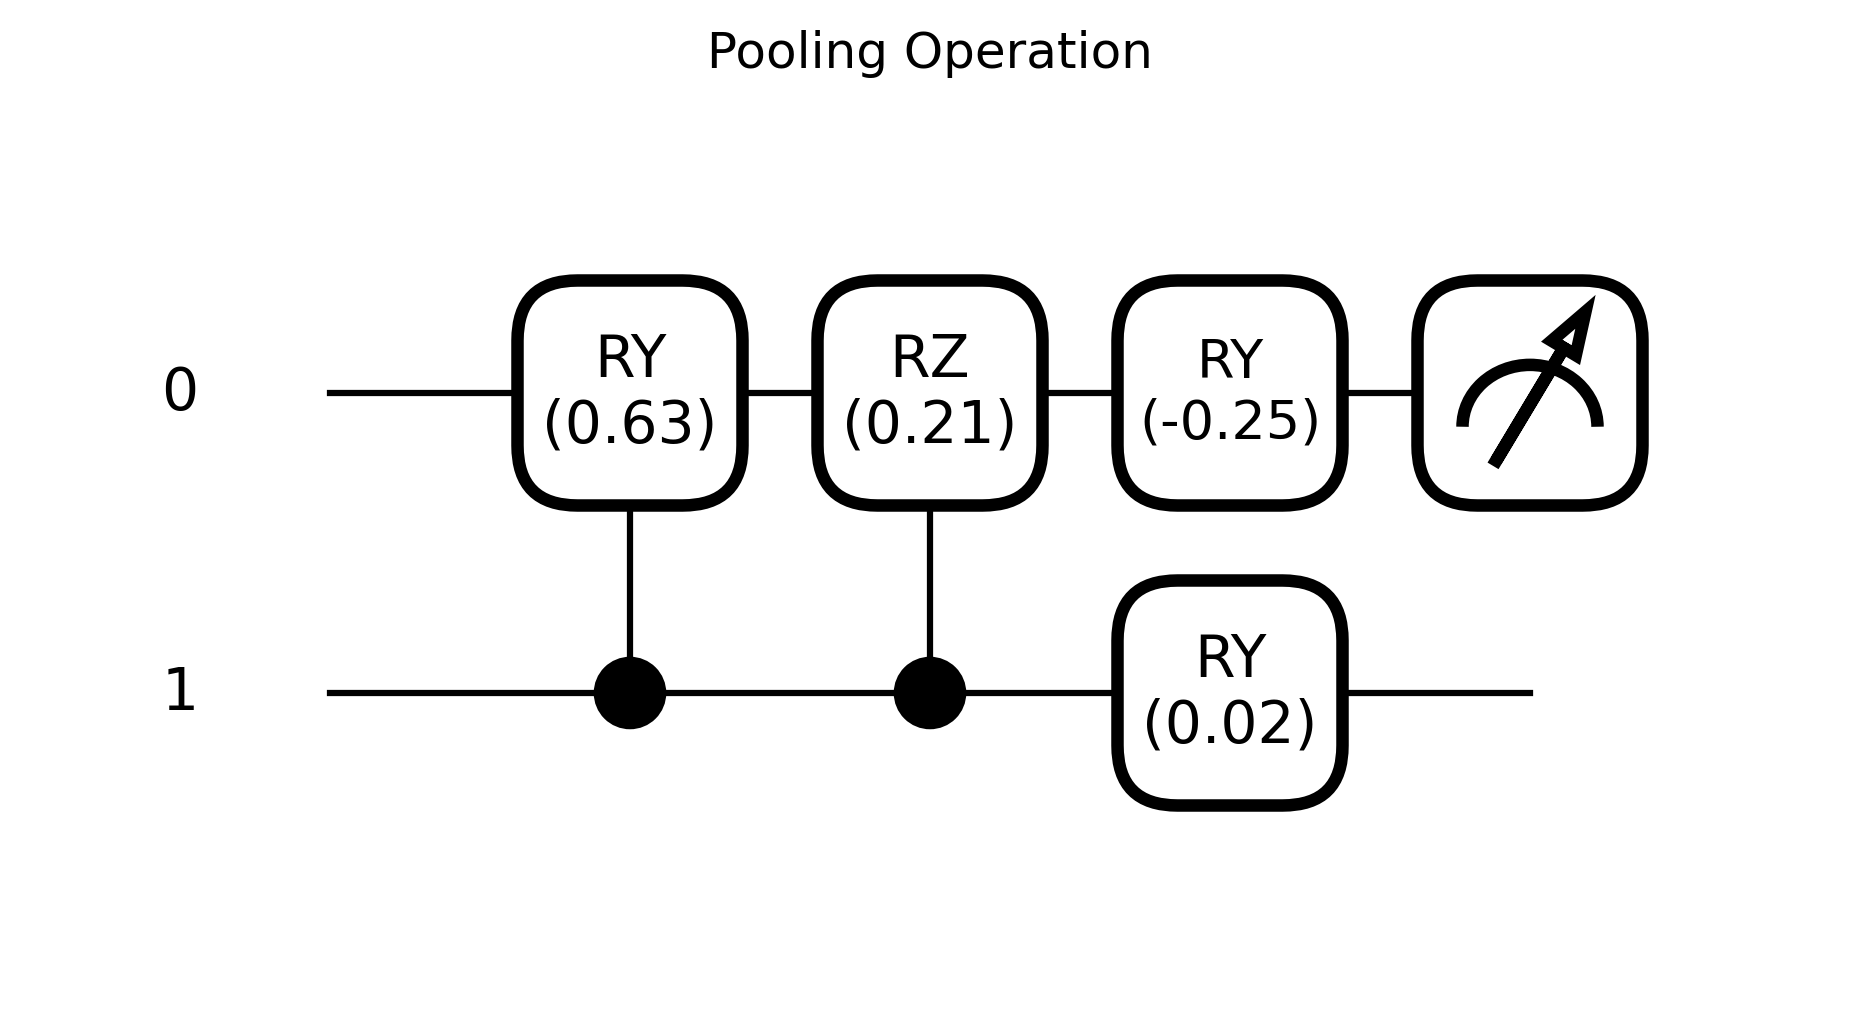
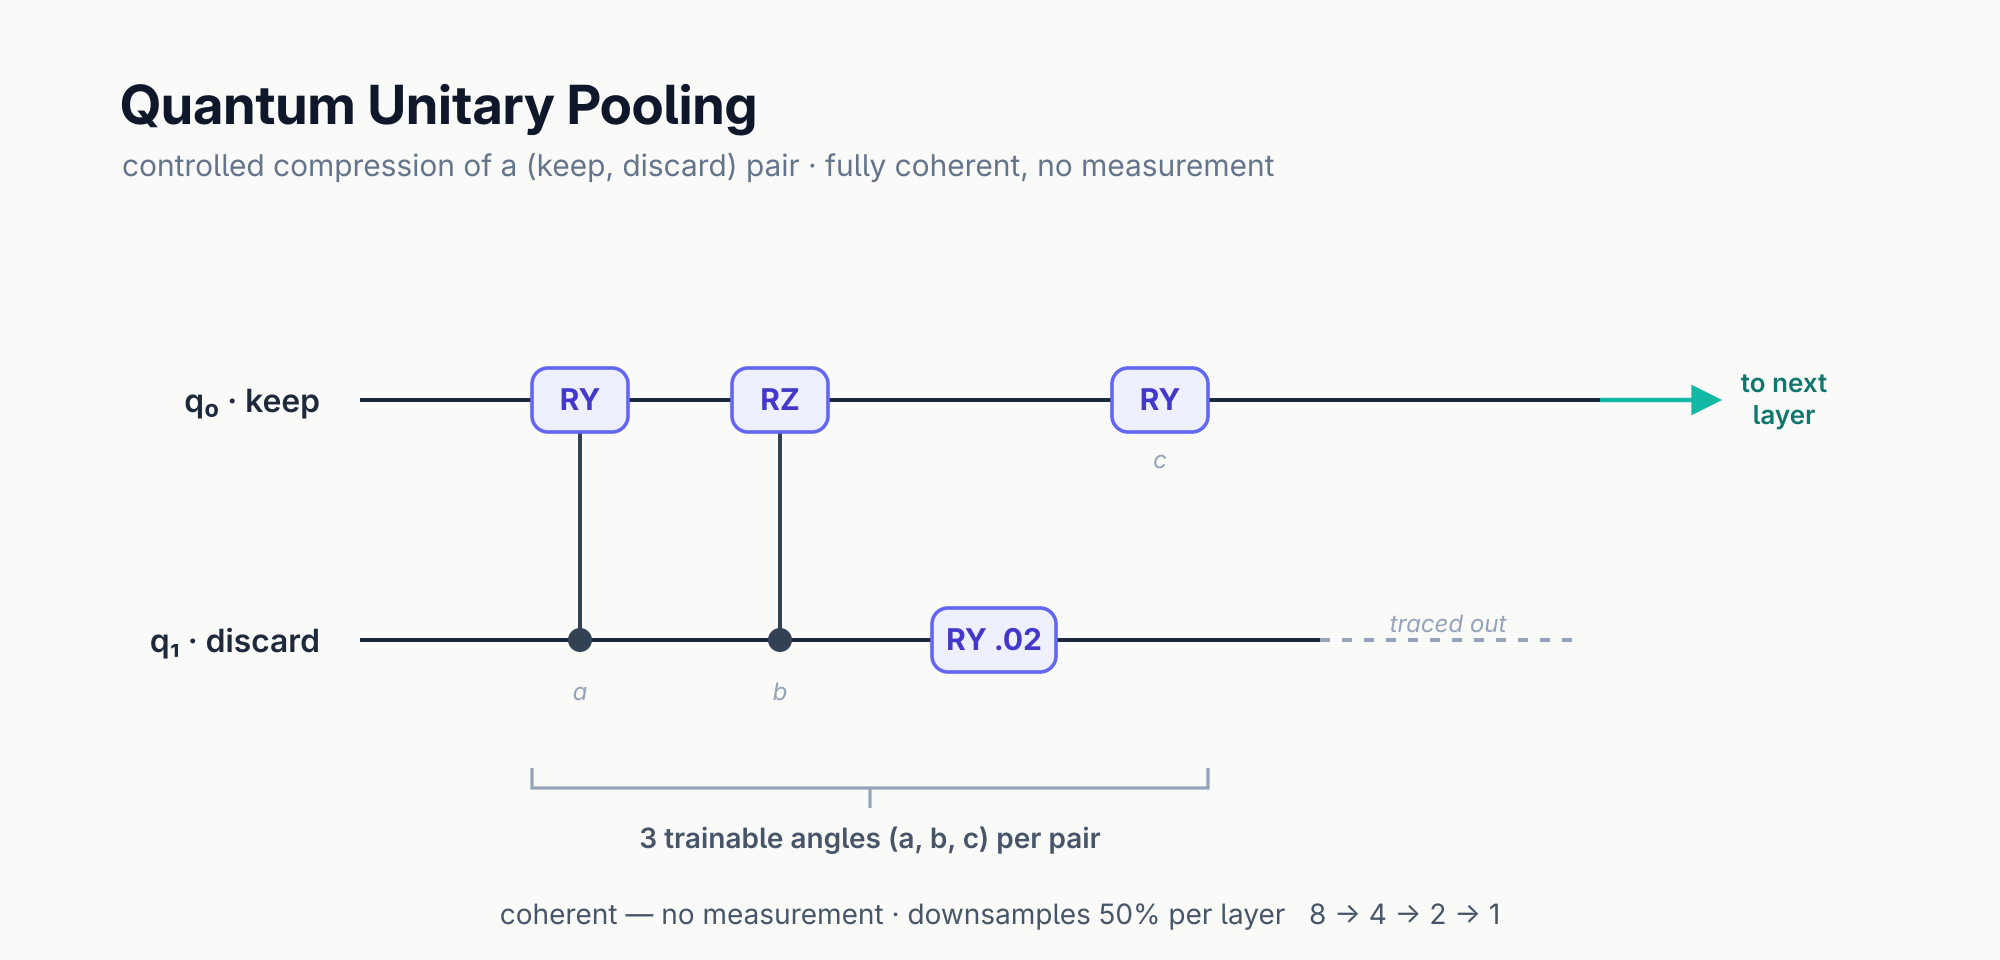
Feat: added QCNN properly generated circuit diagrams

diff --git a/QCNN/utils/circuit_drawer.py b/QCNN/utils/circuit_drawer.py
@@ -151,9 +151,9 @@ if __name__ == "__main__":
     parser = argparse.ArgumentParser(description='Generate QCNN Circuit Diagrams')
     parser.add_argument('--output', type=str, default='Results/Graphs/Circuit_Architecture',
                         help='Output directory for diagrams')
-    parser.add_argument('--encoding', type=str, default='feature_map',
+    parser.add_argument('--encoding', type=str, default='amplitude',
                         choices=['feature_map', 'amplitude', 'patch'],
-                        help='Encoding type to visualize')
+                        help='Encoding type to visualize (default: amplitude, the encoding the model trains with)')
     
     args = parser.parse_args()
     